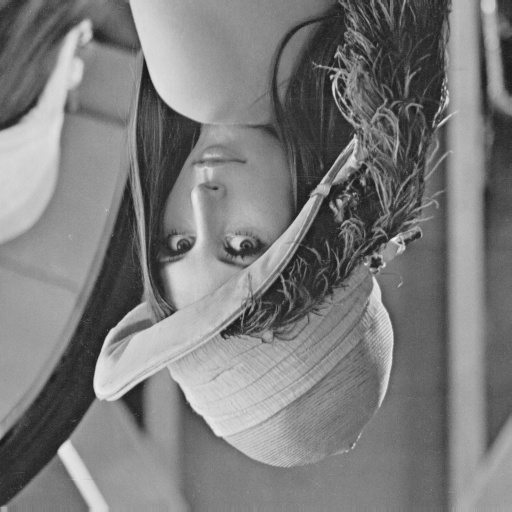
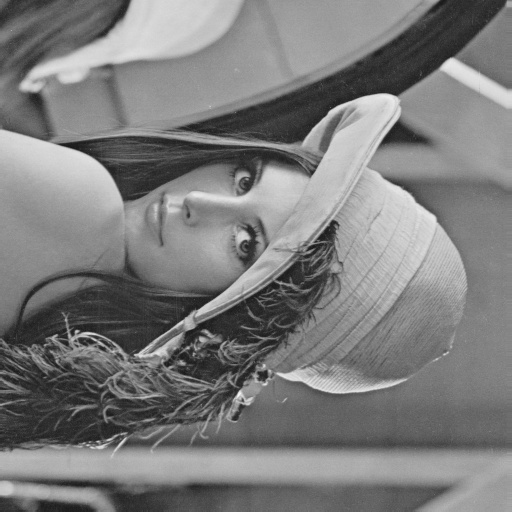
correct diagonally flip

diff --git a/HW1/main.py b/HW1/main.py
@@ -17,12 +17,15 @@ for i in range(img.shape[1]):
     rl_img[:,img.shape[1]-i-1] = img[:,i]
 cv2.imwrite('./output/rightleft_img.jpg',rl_img)
 
+
+
 #diagnonally flip
 diag_img = np.empty(img.shape)
 for i in range(img.shape[0]):
     for j in range(img.shape[1]):
-        diag_img[img.shape[0]-i-1,img.shape[1]-j-1] = img[i,j]
+        diag_img[img.shape[0]-i-1,img.shape[1]-j-1] = img[j,i]
 cv2.imwrite('./output/diagflip_img.jpg',diag_img)
+
 
 #rotate
 (h, w) = img.shape[:2]
